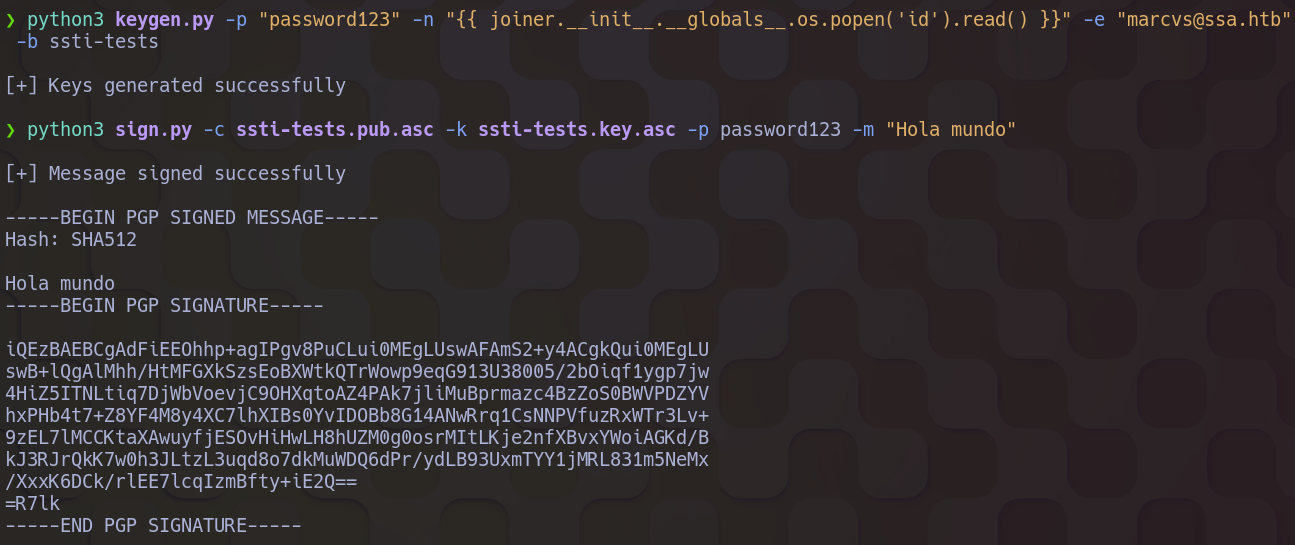
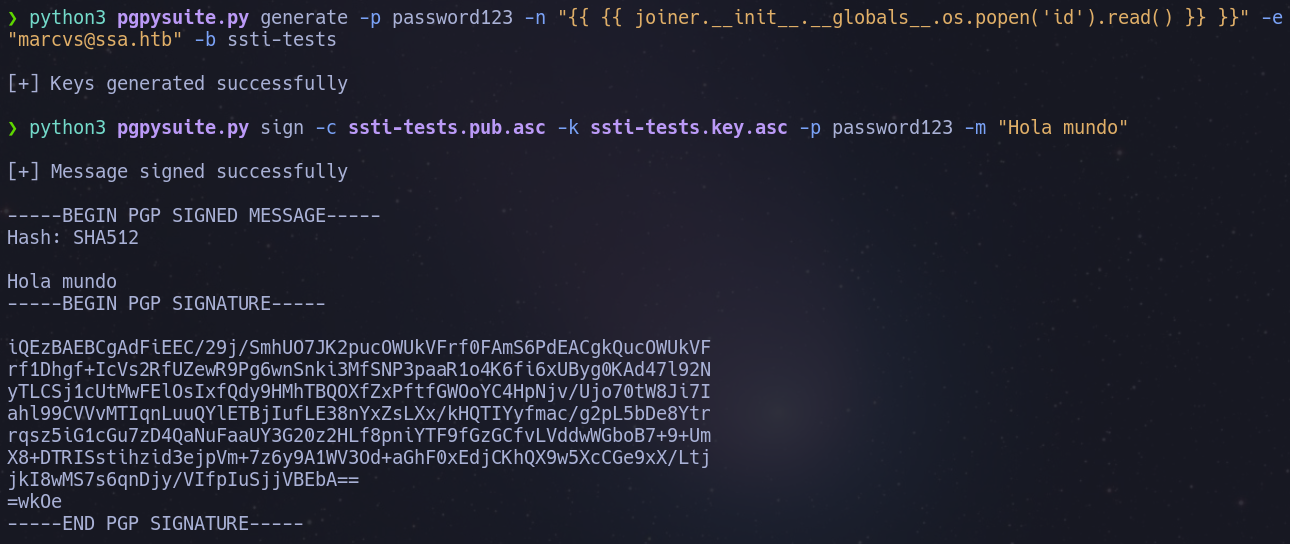
Update writeup with the pgp tool

diff --git a/_posts/2023-07-18-writeup-maquina-sandworm-hackthebox.md b/_posts/2023-07-18-writeup-maquina-sandworm-hackthebox.md
@@ -108,32 +108,26 @@ También nos comparte una clave pública PGP **"Practice by importing our public
 En **linux** para usar este mecanismo de cifrado tenemos [GnuPG](https://gnupg.org/index.html). Para este CTF necesitaremos hacer muchas pruebas antes de continuar y `gpg` nos exporta todas las claves que usemos ya sean publicas o privadas a nuestro peril GnuPG, por lo que desarrollé una **Suite** de herramientas hechas con **Python3** llamada [pgp-pysuite](https://github.com/marcvspt/pgp-pysuite).
 
 ```bash
-$ python3 keygen.py -h
-usage: keygen.py [-h] -p PASSPHRASE -n NAME -e EMAIL [-b BASE_NAME] [--bits BITS]
+$ python3 pgpysuite.py -h
+usage: pgpysuite.py [-h] {generate,encrypt,decrypt,sign,verify} ...
 
-PGP Key pair RSA generator
+PGP Python suite
+
+positional arguments:
+    {generate,encrypt,decrypt,sign,verify}
 
 optional arguments:
-  -h, --help            show this help message and exit
-  -p PASSPHRASE, --passphrase PASSPHRASE
-                        Password for the private key
-  -n NAME, --name NAME  User real name
-  -e EMAIL, --email EMAIL
-                        User e-mail
-  -b BASE_NAME, --base-name BASE_NAME
-                        Base name for the keys
-  --bits BITS           Key length in bits
+    -h, --help          show this help message and exit
 ```
 Creamos un par de **claves PGP** y probamos algunas funciones de la página creando lo que nos pidan.
 
 ```bash
-$ python3 keygen.py -p password123 -n marcvs -e marcvs@ssa.htb
+$ python3 pgpysuite.py generate -p password123 -n marcvs -e marcvs@ssa.htb
 
 [+] Keys generated successfully
 
 $ ls
-decrypt.py  keygen.py           keypgp_uwu.pub.asc  requeriments.txt  verify.py
-encrypt.py  keypgp_uwu.key.asc  README.md           sign.py
+key_pgp.key.asc  key_pgp.pub.asc  pgpysuite.py
 ```
 
 Hay algo curioso y llamativo en una función de la página. Cuando verificamos la firma de un mensaje usando nuestra llave **pública PGP** nos muestra nuestro nombre.
@@ -155,7 +149,7 @@ Primero creamos el par de claves injectando un **SSTI** básico para `flask-jinj
 
 Firmamos cualquier mensaje:
 ```bash
-$ python3 sign.py -c ssti-tests.pub.asc -k ssti-tests.key.asc -p password123 -m "Hola mundo"
+$ python3 pgpysuite.py sign -c ssti-tests.pub.asc -k ssti-tests.key.asc -p password123 -m "Hola mundo"
 
 [+] Message signed successfully
 
